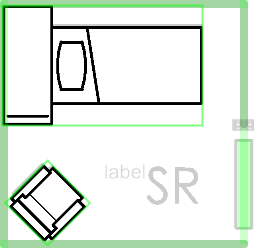
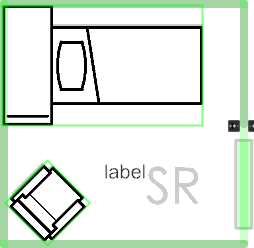
fix: decor.meta.doorId removal/remapping

Changed region(s): [[0.4134, 0.6492, 0.5787, 0.7339], [0.8819, 0.4798, 1.0, 0.5363]]

diff --git a/packages/ui/world/src/service/geomorph.ts b/packages/ui/world/src/service/geomorph.ts
@@ -597,9 +597,9 @@ export function flattenSymbol(symbol: Geomorph.Symbol, flattened: AssetsType["fl
 }
 
 /**
- * 🚧 support removable doors
- * 🚧 support removable walls
  * - aggregates obstacle transform as meta.transform
+ * - supports removable doors
+ * - supports addable walls
  */
 export function instantiateFlatSymbol(
   sym: Geomorph.FlatSymbol,
@@ -626,22 +626,22 @@ export function instantiateFlatSymbol(
   );
 
   const doorIdsToRemove = new Set(doorsToRemove.map((x) => x.doorId));
-  let switchIdOffset = 0;
-  const seenDoorIds = new Set<number>();
+  const doorIdRemap = new Map<number, number>();
+  let newDoorId = 0;
+  for (let i = 0; i < sym.doors.length; i++) {
+    if (!doorIdsToRemove.has(i)) doorIdRemap.set(i, newDoorId++);
+  }
 
-  const decor = sym.decor
-    // remove switches of removed doors, offsetting subsequent doorIds
-    .filter((d) => {
-      if (typeof d.meta.doorId === "number") {
-        if (doorIdsToRemove.has(d.meta.doorId)) {
-          !seenDoorIds.has(d.meta.doorId) && (switchIdOffset--, seenDoorIds.add(d.meta.doorId));
-          return false;
-        }
-        d.meta.doorId += switchIdOffset;
-      }
-      return true;
-    })
-    .map((poly) => poly.cleanClone(mat, transformDecorMeta(poly.meta, mat, meta.y)));
+  const decor = sym.decor.flatMap((d) => {
+    if (typeof d.meta.doorId === "number") {
+      if (doorIdsToRemove.has(d.meta.doorId)) return [];
+      return d.cleanClone(mat, {
+        ...transformDecorMeta(d.meta, mat, meta.y),
+        doorId: doorIdRemap.get(d.meta.doorId),
+      });
+    }
+    return d.cleanClone(mat, transformDecorMeta(d.meta, mat, meta.y));
+  });
 
   return {
     key: sym.key,
@@ -679,7 +679,7 @@ export function instantiateFlatSymbol(
       }),
     ),
     unsorted: sym.unsorted.map((poly) => poly.cleanClone(mat)),
-    walls: sym.walls.map((poly) => poly.cleanClone(tmpMat1)),
+    walls: sym.walls.concat(wallsToAdd).map((poly) => poly.cleanClone(tmpMat1)),
     windows: sym.windows.map((poly) => poly.cleanClone(tmpMat1)),
 
     // not aggregated

diff --git a/TODO.md b/TODO.md
@@ -172,6 +172,8 @@
 
 - 🚧 add switches to all extant doors
 
+- ✅ BUG save other symbol then office--001 switch disappears
+
 - 🚧 door switches show green/red when unlocked/locked
   - ✅ doors have entry in `w.door.byKey`
   - ✅ track open/closed
